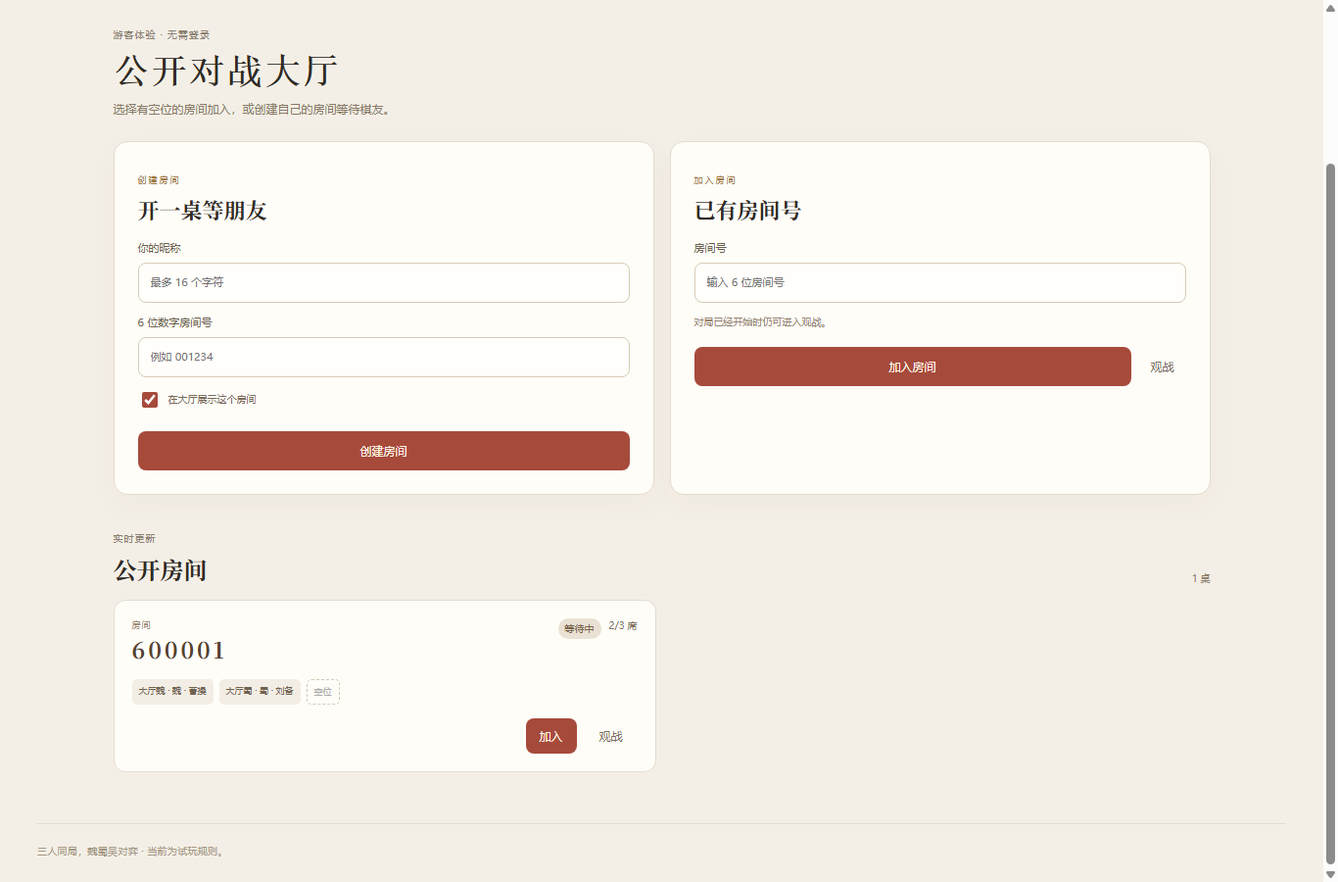
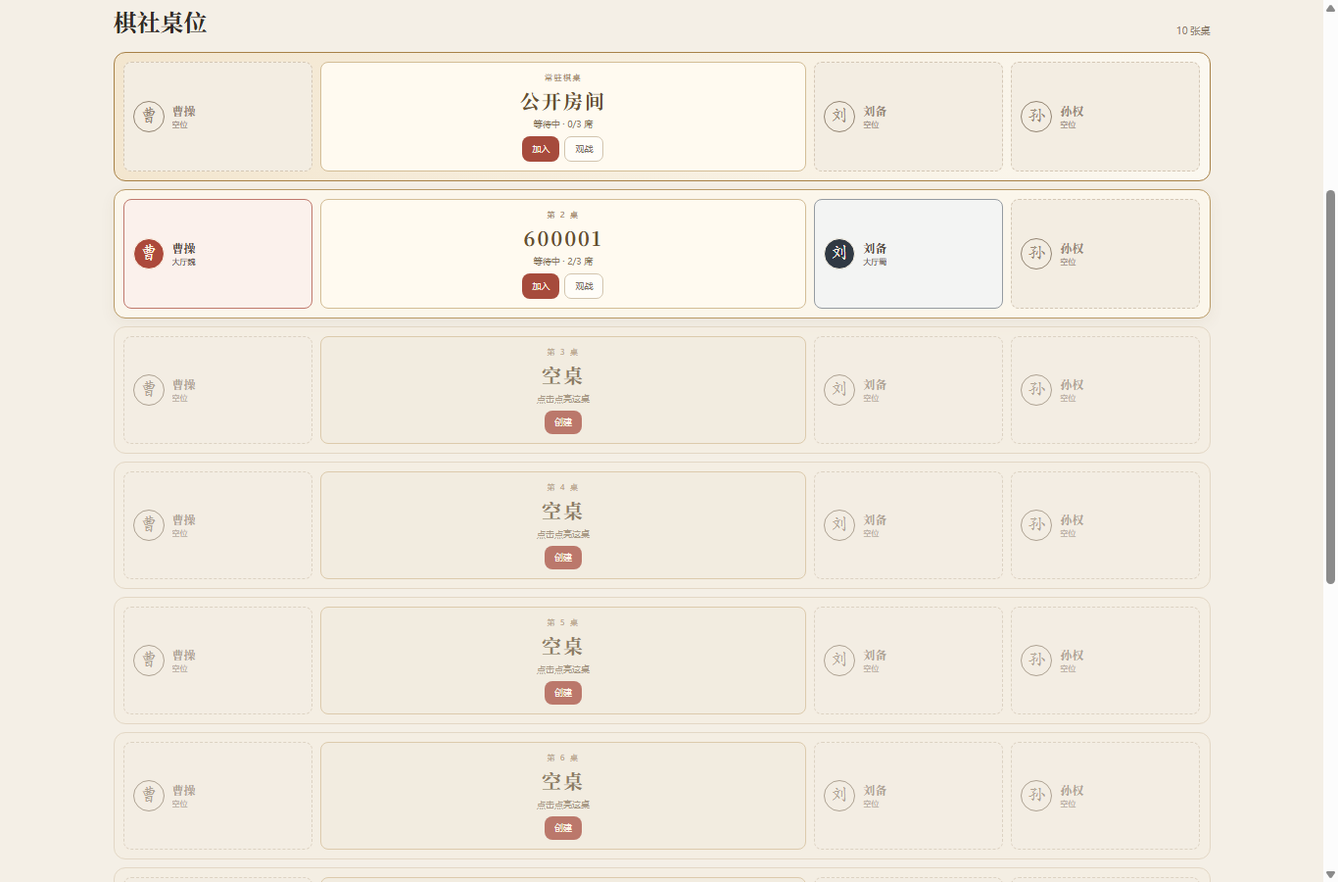
feat: turn public lobby into ten chess tables

diff --git a/src/style.css b/src/style.css
@@ -23,5 +23,7 @@ dialog{border:1px solid #ddcfb8;border-radius:15px;background:#fffdf7;color:#453
 .app-notice{margin:16px 0 0;padding:10px 13px;border-radius:8px;background:#f7e8dd;border:1px solid #dfb79d;font-size:11px;color:#8f4c36}
 .home-page{padding:34px 0 56px}.home-hero{display:grid;grid-template-columns:minmax(0,1.1fr) minmax(320px,.75fr);gap:44px;align-items:center;min-height:430px;padding:46px 52px;border:1px solid #dfd2bd;border-radius:22px;background:radial-gradient(circle at 82% 18%,#eadfcb 0,transparent 37%),linear-gradient(125deg,#fffaf0,#f1e7d6);box-shadow:0 24px 60px #5943230c}.home-hero h1{font:700 clamp(48px,6vw,78px) "Songti SC","SimSun",serif;letter-spacing:9px;color:#302820;margin:13px 0 20px}.home-lead{font:18px/2 "Songti SC","SimSun",serif;color:#6e5d49;letter-spacing:1px}.home-primary-actions{display:flex;align-items:center;gap:12px;margin-top:32px}.home-main-action{font-size:15px;padding:14px 24px;box-shadow:0 8px 20px #8e3d3024}.home-main-action span{margin-left:12px}.home-secondary-action{border-color:#cdbb9e;background:#fffaf0;padding:12px 17px;color:#745a37}.home-return-room{display:flex;align-items:center;justify-content:space-between;gap:18px;margin-top:24px;padding:13px 15px;border:1px solid #cfbd9f;border-radius:10px;background:#fffaf0c9}.home-return-room div{display:grid;gap:3px}.home-return-room strong{font-size:12px;color:#654f31}.home-return-room span{font-size:10px;color:#8c7a61}.home-return-room button{padding:8px 12px;white-space:nowrap}.home-hero-board{position:relative;width:min(100%,340px);aspect-ratio:.92;justify-self:center;border:9px solid #c7a66b;border-radius:13px;background:linear-gradient(145deg,#efdab4,#e3c38f);box-shadow:0 20px 45px #674a2922,inset 0 0 0 1px #72532d55;overflow:hidden}.home-hero-board::before{content:"";position:absolute;inset:7%;border:1px solid #74563288}.home-board-line{position:absolute;background:#74563266}.home-board-line.horizontal{left:7%;right:7%;height:1px}.home-board-line.horizontal.one{top:36%}.home-board-line.horizontal.two{top:64%}.home-board-line.vertical{top:7%;bottom:7%;width:1px}.home-board-line.vertical.one{left:36%}.home-board-line.vertical.two{left:64%}.home-board-label{position:absolute;left:0;right:0;top:46%;text-align:center;font:700 18px "STKaiti","KaiTi",serif;letter-spacing:7px;color:#82633c}.home-board-piece{position:absolute;display:grid;place-items:center;width:52px;height:52px;border-radius:50%;color:#fff9e9;font:700 25px "STKaiti","KaiTi",serif;box-shadow:0 5px 10px #4f361f3d,inset 0 0 0 3px #fff5df8c;border:1px solid #4e3927}.home-board-piece.wei{left:43%;bottom:10%;background:#b6503e}.home-board-piece.shu{right:15%;top:15%;background:#343e48}.home-board-piece.wu{left:15%;top:15%;background:#2e7956}.home-factions{display:grid;grid-template-columns:repeat(3,1fr);gap:14px;margin-top:20px}.home-faction-card{position:relative;display:flex;align-items:center;gap:15px;padding:20px;border:1px solid var(--line);border-radius:13px;background:#fffdf8}.home-faction-card.wei{--faction:#ac493b}.home-faction-card.shu{--faction:#303943}.home-faction-card.wu{--faction:#28704f}.home-faction-seal{display:grid;place-items:center;width:48px;height:48px;border-radius:50%;background:var(--faction);color:#fff8e8;font:700 24px "STKaiti","KaiTi",serif;box-shadow:inset 0 0 0 3px #fff4df33}.home-faction-card span:not(.home-faction-index):not(.home-faction-seal){font-size:9px;letter-spacing:2px;color:var(--faction)}.home-faction-card h2{font:700 19px "Songti SC",serif;margin:3px 0}.home-faction-card p{font-size:10px;color:#8b7b66}.home-faction-index{position:absolute;right:13px;top:10px;font-size:9px;color:#c0b29f}.home-actions{display:grid;grid-template-columns:repeat(3,1fr);gap:14px;margin-top:28px}.home-action-card{display:grid;gap:8px;text-align:left;border:1px solid #dbcfbc;border-radius:13px;background:#fffdf8;padding:22px;color:#493e32;min-height:178px}.home-action-card:hover{border-color:#bfa16d;background:#fffaf0;transform:translateY(-2px)}.home-action-kicker{font-size:9px;letter-spacing:2px;color:#a17942}.home-action-card strong{font:700 21px "Songti SC",serif}.home-action-card p{font-size:11px;line-height:1.8;color:#877965}.home-action-link{margin-top:auto;font-size:11px;color:#9c503c}.home-local-card{background:#f6f1e7}.home-secondary-row{display:flex;justify-content:center;gap:26px;margin-top:24px}.home-secondary-row .plain-button{color:#7f705c;border-bottom:1px solid #d2c3aa}.home-about{margin:34px auto 0;max-width:720px;text-align:center;padding:28px;border-top:1px solid var(--line);border-bottom:1px solid var(--line)}.home-about h2{font:700 24px "Songti SC",serif;margin:7px 0 10px}.home-about p{font-size:12px;line-height:2;color:#81725f}
 .lobby-page{max-width:1120px;margin:0 auto;padding:28px 0 52px}.lobby-page-nav{display:flex;justify-content:space-between;align-items:center;margin-bottom:28px}.lobby-tabs{display:flex;border:1px solid #d7cbb9;border-radius:9px;padding:3px;background:#eee7dc}.lobby-tabs button{border:0;border-radius:6px;background:transparent;padding:7px 14px;color:#776b5b;font-size:11px}.lobby-tabs button.active{background:#fffdf8;color:#923f33;box-shadow:0 1px 4px #5943231c}.lobby-page-heading h1{font:700 36px "Songti SC","SimSun",serif;letter-spacing:2px;margin:7px 0 9px}.lobby-page-heading p{font-size:12px;color:#887966}.lobby-current-room{display:flex;justify-content:space-between;align-items:center;gap:18px;margin:20px 0;padding:13px 16px;border:1px solid #cdb88f;border-radius:10px;background:#f5ecdb}.lobby-current-room div{display:grid;gap:3px}.lobby-current-room span{font-size:10px;color:#867357}.lobby-current-room strong{font:700 18px "Songti SC",serif;color:#684c29;letter-spacing:2px}.lobby-entry-grid{display:grid;grid-template-columns:1fr 1fr;gap:16px;margin-top:24px}.lobby-entry-card{padding:24px;border:1px solid var(--line);border-radius:14px;background:#fffdf8;box-shadow:0 10px 30px #59432308}.lobby-entry-card h2{font:700 22px "Songti SC",serif;margin:5px 0 16px}.lobby-card-kicker{font-size:9px;letter-spacing:2px;color:#a17942}.lobby-entry-card label{display:grid;gap:7px;margin:12px 0;font-size:11px;color:#6d5f4e}.lobby-entry-card input{border:1px solid #d8cab4;background:#fffefb;border-radius:8px;padding:11px 12px;min-width:0;outline:none;font:inherit}.lobby-entry-card input:focus{border-color:#a78147;box-shadow:0 0 0 3px #a781471b}.lobby-entry-card .lobby-listed-option{display:flex;align-items:center;gap:8px;font-size:10px;color:#786957}.lobby-listed-option input{width:16px;height:16px;padding:0;accent-color:#a64b3c}.lobby-entry-card>button{width:100%;margin-top:9px}.lobby-join-card>p{font-size:10px;color:#958571}.lobby-join-actions{display:grid;grid-template-columns:1fr auto;gap:8px;margin-top:18px}.lobby-join-actions button{width:auto!important}.public-room-section{margin-top:30px}.public-room-heading{display:flex;align-items:end;justify-content:space-between;margin-bottom:14px}.public-room-heading h2{font:700 24px "Songti SC",serif;margin-top:4px}.public-room-heading>span{font-size:10px;color:#8e806d}.public-room-list{display:grid;grid-template-columns:repeat(2,minmax(0,1fr));gap:12px}.public-room-card{display:grid;gap:14px;padding:18px;border:1px solid var(--line);border-radius:12px;background:#fffdf8}.public-room-main{display:flex;justify-content:space-between;gap:12px}.public-room-code{display:grid;gap:2px}.public-room-code span{font-size:9px;color:#9c8b75;letter-spacing:1px}.public-room-code strong{font:700 23px "Songti SC",serif;letter-spacing:3px;color:#554331}.public-room-meta{display:flex;align-items:flex-start;gap:8px;font-size:10px;color:#82735f}.room-phase{padding:3px 7px;border-radius:12px;background:#e9e1d3;color:#78634a}.room-phase.playing{background:#e2ece3;color:#3f704e}.room-phase.finished{background:#eee8e1;color:#88796a}.public-room-players{display:flex;flex-wrap:wrap;gap:6px}.public-room-players span{padding:5px 7px;border-radius:5px;background:#f3eee5;font-size:9px;color:#6f614f}.public-room-players span.offline{opacity:.55}.public-room-players span.empty{border:1px dashed #d5c8b6;background:transparent;color:#aaa}.public-room-actions{display:flex;gap:8px;justify-content:flex-end}.public-room-actions button{padding:8px 14px}.public-room-empty{padding:44px 20px;text-align:center;border:1px dashed #d6c8b5;border-radius:12px;color:#8c7e6b}.public-room-empty>span{display:grid;place-items:center;width:45px;height:45px;margin:0 auto 12px;border:1px solid #d6c8b5;border-radius:50%;font:24px "KaiTi",serif}.public-room-empty h3{font:700 20px "Songti SC",serif;margin-bottom:6px;color:#574837}.public-room-empty p{font-size:11px;margin-bottom:16px}.friend-flow-note{margin-top:24px;padding:24px;border:1px solid var(--line);border-radius:12px;background:#faf6ee}.friend-flow-note h2{font:700 21px "Songti SC",serif;margin-bottom:12px}.friend-flow-note ol{padding-left:21px;color:#746552;font-size:12px;line-height:2}.room-recovery{text-align:center}.room-recovery .entry-actions{justify-content:center;margin-top:20px}.room-heading p{font-size:10px;color:#91836f;margin-top:5px}
+.public-player-entry{display:grid;grid-template-columns:auto minmax(210px,340px) 1fr;align-items:center;gap:12px;margin-top:22px;padding:12px 15px;border:1px solid #ded1bd;border-radius:10px;background:#f8f3e9}.public-player-entry label{font-size:11px;color:#695a47}.public-player-entry input{border:1px solid #d6c7b0;border-radius:7px;background:#fffdf8;padding:9px 11px;min-width:0;font:inherit}.public-player-entry>span{font-size:10px;color:#94846f}.chess-club-hall{margin-top:22px}.chess-club-tables{display:grid;gap:8px}.chess-club-table{display:grid;grid-template-columns:minmax(92px,.7fr) minmax(240px,1.8fr) minmax(92px,.7fr) minmax(92px,.7fr);align-items:stretch;gap:8px;padding:9px;border:1px solid #ddcfb9;border-radius:12px;background:#f5eee2;transition:border-color .18s,background .18s,box-shadow .18s}.chess-club-table.active{border-color:#b99a67;background:#fbf6eb;box-shadow:0 5px 16px #674c2910}.chess-club-table.public-table{border-color:#a78147;background:linear-gradient(90deg,#f3e6cf,#fbf8f0)}.club-seat{display:flex;align-items:center;gap:8px;min-width:0;padding:9px;border:1px dashed #d4c7b5;border-radius:8px;background:#f3ede2;color:#938573}.club-seat.occupied{border-style:solid;background:#fffdf8;color:#4e4337}.club-seat.wei.occupied{border-color:#bf796d;background:#fbf1ec}.club-seat.shu.occupied{border-color:#959ba1;background:#f3f4f3}.club-seat.wu.occupied{border-color:#75a086;background:#eef6f0}.club-seat-mark{display:grid;place-items:center;width:32px;height:32px;flex:none;border-radius:50%;border:1px solid currentColor;font:700 18px "STKaiti","KaiTi",serif}.club-seat.occupied .club-seat-mark{color:#fff8e9}.club-seat.wei.occupied .club-seat-mark{background:#ac493b}.club-seat.shu.occupied .club-seat-mark{background:#303943}.club-seat.wu.occupied .club-seat-mark{background:#28704f}.club-seat>div{display:grid;min-width:0}.club-seat strong{font:700 12px "Songti SC",serif}.club-seat small{font-size:8px;overflow:hidden;text-overflow:ellipsis;white-space:nowrap}.club-table-center{display:grid;place-content:center;justify-items:center;gap:3px;min-width:0;padding:9px 12px;border:1px solid #d3bd96;border-radius:8px;background:#fffaf0;text-align:center}.club-table-label{font-size:8px;letter-spacing:1.5px;color:#a18152}.club-table-center>strong{font:700 20px "Songti SC",serif;letter-spacing:2px;color:#675032}.club-table-center>small{font-size:9px;color:#8b795f}.club-table-actions{display:flex;gap:5px;margin-top:3px}.club-table-actions button{padding:5px 10px;font-size:9px}.club-table-actions .tool-button{border:1px solid #d2c4ae;background:#fffdf8}.club-loading{text-align:center;font-size:10px;color:#a0907b;padding:16px}.chess-club-table.empty{opacity:.72}.chess-club-table.empty .club-table-center{background:#f2ebdf}
+@media(max-width:720px){.public-player-entry{grid-template-columns:1fr;gap:6px}.public-player-entry>span{padding-left:2px}.chess-club-table{grid-template-columns:62px minmax(110px,1fr) 62px 62px;gap:4px;padding:6px}.club-seat{align-items:center;gap:4px;padding:5px;text-align:center;flex-direction:column}.club-seat-mark{width:27px;height:27px;font-size:15px}.club-seat strong{font-size:10px}.club-seat small{max-width:52px;font-size:7px}.club-table-center{padding:6px 4px}.club-table-center>strong{font-size:15px;letter-spacing:1px}.club-table-center>small{font-size:8px}.club-table-actions{gap:3px}.club-table-actions button{padding:4px 6px;font-size:8px}}
 @media(max-width:900px){.home-hero{grid-template-columns:1fr;min-height:0;padding:32px}.home-hero-board{width:min(100%,280px);order:-1}.home-factions,.home-actions{grid-template-columns:1fr}.public-room-list{grid-template-columns:1fr}.lobby-entry-grid{grid-template-columns:1fr}.home-page{padding-top:18px}}
 @media(max-width:720px){.home-hero{padding:24px 18px;border-radius:15px}.home-hero h1{font-size:44px;letter-spacing:5px;margin:10px 0 14px}.home-lead{font-size:15px;line-height:1.9}.home-primary-actions{display:grid;grid-template-columns:1fr;margin-top:24px}.home-main-action,.home-secondary-action{width:100%;justify-content:center;text-align:center}.home-hero-board{width:210px}.home-board-piece{width:42px;height:42px;font-size:21px}.home-faction-card{padding:15px}.home-action-card{min-height:150px;padding:18px}.home-secondary-row{gap:18px;flex-wrap:wrap}.home-about{padding:22px 12px}.lobby-page{padding:18px 0 36px}.lobby-page-nav{align-items:flex-start;gap:12px;flex-wrap:wrap}.lobby-page-heading h1{font-size:29px}.lobby-entry-card{padding:18px}.public-room-card{padding:15px}.public-room-main{gap:7px}.public-room-actions{display:grid;grid-template-columns:1fr 1fr}.lobby-current-room{align-items:stretch;flex-direction:column}.lobby-current-room button{width:100%}.lobby-join-actions{grid-template-columns:1fr 1fr}.site-header{flex-wrap:wrap;gap:10px}.header-actions{display:grid;grid-template-columns:repeat(2,auto);justify-content:end;gap:3px 12px}.brand-button strong{font-size:21px}.brand-button small{font-size:7px}.plain-button{min-height:32px}.entry-actions{grid-template-columns:1fr}}

diff --git a/src/components/LobbyPage.vue b/src/components/LobbyPage.vue
@@ -1,6 +1,7 @@
 <script setup lang="ts">
 import { computed } from 'vue';
 import { PLAYERS } from '../game.ts';
+import { PUBLIC_ROOM_CODE } from '../online.ts';
 import type { PublicRoomSummary, RoomPhase } from '../online.ts';
 
 const props = defineProps<{
@@ -24,6 +25,7 @@ const emit = defineEmits<{
   switchFriends: [];
   resume: [];
   create: [];
+  createTable: [];
   join: [code?: string];
   watch: [code?: string];
   updateNickname: [value: string];
@@ -34,11 +36,20 @@ const emit = defineEmits<{
 
 const online = computed(() => props.connection === 'online');
 const phaseLabel = (phase: RoomPhase) => phase === 'lobby' ? '等待中' : phase === 'playing' ? '对局中' : '已结束';
-const factionLabel = (faction: keyof typeof PLAYERS | null) => faction ? `${PLAYERS[faction].nation} · ${PLAYERS[faction].name}` : '未选阵营';
 const title = computed(() => props.mode === 'public' ? '公开对战大厅' : '与好友对弈');
 const subtitle = computed(() => props.mode === 'public'
-  ? '选择有空位的房间加入，或创建自己的房间等待棋友。'
+  ? ''
   : '创建 6 位数字房间，把号码或邀请链接发给朋友。');
+const publicRoom = computed(() => props.rooms.find(room => room.code === PUBLIC_ROOM_CODE) ?? null);
+const tableSlots = computed(() => Array.from({ length: 9 }, (_, index) =>
+  props.rooms.filter(room => room.code !== PUBLIC_ROOM_CODE)[index] ?? null));
+const playerAt = (room: PublicRoomSummary | null, faction: keyof typeof PLAYERS) =>
+  room?.players.find(player => player.faction === faction) ?? null;
+function activateTable(room: PublicRoomSummary | null) {
+  if (!room) emit('createTable');
+  else if (room.joinable) emit('join', room.code);
+  else emit('watch', room.code);
+}
 </script>
 
 <template>
@@ -54,7 +65,7 @@ const subtitle = computed(() => props.mode === 'public'
     <header class="lobby-page-heading">
       <span class="eyebrow">游客体验 · 无需登录</span>
       <h1>{{ title }}</h1>
-      <p>{{ subtitle }}</p>
+      <p v-if="subtitle">{{ subtitle }}</p>
     </header>
 
     <div v-if="hasRoom" class="lobby-current-room">
@@ -64,7 +75,13 @@ const subtitle = computed(() => props.mode === 'public'
       </button>
     </div>
 
-    <section class="lobby-entry-grid">
+    <section v-if="mode === 'public'" class="public-player-entry">
+      <label for="lobby-nickname">你的昵称</label>
+      <input id="lobby-nickname" :value="nickname" maxlength="16" autocomplete="nickname" placeholder="先填写昵称，再点击桌位加入" @input="emit('updateNickname', ($event.target as HTMLInputElement).value)">
+      <span>共 10 张桌 · 第一张为常驻公开桌</span>
+    </section>
+
+    <section v-if="mode === 'friends'" class="lobby-entry-grid">
       <form class="lobby-entry-card" @submit.prevent="emit('create')">
         <span class="lobby-card-kicker">创建房间</span>
         <h2>开一桌等朋友</h2>
@@ -88,41 +105,48 @@ const subtitle = computed(() => props.mode === 'public'
 
     <p v-if="connection !== 'online' || error" class="connection-note" :class="{ error }">{{ error || '连接中断，正在重连…' }}</p>
 
-    <section v-if="mode === 'public'" class="public-room-section" aria-label="公开房间列表" aria-live="polite">
+    <section v-if="mode === 'public'" class="public-room-section chess-club-hall" aria-label="棋社桌位" aria-live="polite">
       <div class="public-room-heading">
-        <div><span class="eyebrow">实时更新</span><h2>公开房间</h2></div>
-        <span>{{ rooms.length }} 桌</span>
+        <h2>棋社桌位</h2><span>10 张桌</span>
       </div>
-      <div v-if="rooms.length" class="public-room-list">
-        <article v-for="room in rooms" :key="room.code" class="public-room-card">
-          <div class="public-room-main">
-            <div class="public-room-code"><span>房间</span><strong>{{ room.code }}</strong></div>
-            <div class="public-room-meta">
-              <span class="room-phase" :class="room.phase">{{ phaseLabel(room.phase) }}</span>
-              <span>{{ room.playerCount }}/{{ room.maxPlayers }} 席</span>
+      <div class="chess-club-tables">
+        <article class="chess-club-table public-table" :class="{ active: publicRoom?.playerCount }">
+          <div class="club-seat wei" :class="{ occupied: playerAt(publicRoom, 'wei') }"><span class="club-seat-mark">曹</span><div><strong>曹操</strong><small>{{ playerAt(publicRoom, 'wei')?.nickname ?? '空位' }}</small></div></div>
+          <div class="club-table-center">
+            <span class="club-table-label">常驻棋桌</span>
+            <strong>公开房间</strong>
+            <small>{{ publicRoom ? `${phaseLabel(publicRoom.phase)} · ${publicRoom.playerCount}/3 席` : '等待开局' }}</small>
+            <div class="club-table-actions">
+              <button class="primary-button" :disabled="busy || !online || hasRoom || !publicRoom?.joinable" @click="activateTable(publicRoom)">加入</button>
+              <button class="tool-button" :disabled="busy || !online || hasRoom || !publicRoom" @click="publicRoom && emit('watch', publicRoom.code)">观战</button>
             </div>
           </div>
-          <div class="public-room-players">
-            <span v-for="(player, index) in room.players" :key="`${room.code}-${index}`" :class="{ offline: !player.online }">
-              {{ player.nickname }} · {{ factionLabel(player.faction) }}
-            </span>
-            <span v-for="slot in room.maxPlayers - room.playerCount" :key="`empty-${slot}`" class="empty">空位</span>
-          </div>
-          <div class="public-room-actions">
-            <button v-if="room.joinable" class="primary-button" :disabled="busy || !online || hasRoom" @click="emit('join', room.code)">加入</button>
-            <button class="tool-button" :disabled="busy || !online || hasRoom" @click="emit('watch', room.code)">观战</button>
-          </div>
+          <div class="club-seat shu" :class="{ occupied: playerAt(publicRoom, 'shu') }"><span class="club-seat-mark">刘</span><div><strong>刘备</strong><small>{{ playerAt(publicRoom, 'shu')?.nickname ?? '空位' }}</small></div></div>
+          <div class="club-seat wu" :class="{ occupied: playerAt(publicRoom, 'wu') }"><span class="club-seat-mark">孙</span><div><strong>孙权</strong><small>{{ playerAt(publicRoom, 'wu')?.nickname ?? '空位' }}</small></div></div>
+        </article>
+
+        <article v-for="(room, index) in tableSlots" :key="index" class="chess-club-table" :class="{ active: room, empty: !room }">
+          <template v-for="faction in ['wei', 'shu', 'wu'] as const" :key="faction">
+            <div class="club-seat" :class="[faction, { occupied: playerAt(room, faction) }]">
+              <span class="club-seat-mark">{{ PLAYERS[faction].initial }}</span>
+              <div><strong>{{ PLAYERS[faction].name }}</strong><small>{{ playerAt(room, faction)?.nickname ?? '空位' }}</small></div>
+            </div>
+            <div v-if="faction === 'wei'" class="club-table-center">
+              <span class="club-table-label">第 {{ index + 2 }} 桌</span>
+              <strong>{{ room?.code ?? '空桌' }}</strong>
+              <small>{{ room ? `${phaseLabel(room.phase)} · ${room.playerCount}/3 席` : '点击点亮这桌' }}</small>
+              <div class="club-table-actions">
+                <button v-if="!room" class="primary-button" :disabled="busy || !online || hasRoom" @click="emit('createTable')">创建</button>
+                <template v-else>
+                  <button v-if="room.joinable" class="primary-button" :disabled="busy || !online || hasRoom" @click="emit('join', room.code)">加入</button>
+                  <button class="tool-button" :disabled="busy || !online || hasRoom" @click="emit('watch', room.code)">观战</button>
+                </template>
+              </div>
+            </div>
+          </template>
         </article>
       </div>
-      <div v-else-if="loaded" class="public-room-empty">
-        <span aria-hidden="true">弈</span>
-        <h3>大厅还没有房间</h3>
-        <p>创建一个公开房间，让正在大厅的棋友加入。</p>
-        <button class="primary-button" :disabled="busy || !online || hasRoom" @click="emit('create')">创建第一个房间</button>
-      </div>
-      <div v-else class="public-room-empty">
-        <p>正在获取公开房间…</p>
-      </div>
+      <p v-if="!loaded" class="club-loading">正在连接棋社…</p>
     </section>
 
     <section v-else class="friend-flow-note">

diff --git a/server/room-service.ts b/server/room-service.ts
@@ -1,6 +1,7 @@
 import { randomBytes, randomUUID } from 'node:crypto';
 import { ORDER, drawGame, newGame, playMove, resignFaction } from '../src/game.ts';
 import type { Faction, Game, Point } from '../src/game.ts';
+import { PUBLIC_ROOM_CODE } from '../src/online.ts';
 import type { ClientAck, DrawOfferView, DrawVote, MoveIntent, PublicRoomSummary, RoomPhase, RoomPlayerView, RoomView, SessionReceipt } from '../src/online.ts';
 
 interface Player {
@@ -60,6 +61,10 @@ export class RoomService {
   constructor(onRoomChanged: (room: Room) => void = () => {}, lobbyGraceMs = 60_000) {
     this.onRoomChanged = onRoomChanged;
     this.lobbyGraceMs = lobbyGraceMs;
+    this.rooms.set(PUBLIC_ROOM_CODE, {
+      code: PUBLIC_ROOM_CODE, phase: 'lobby', version: 1, round: 1, players: [], spectators: new Set(),
+      game: null, drawOffer: null, listed: true, requests: new Map(),
+    });
   }
 
   createRoom(codeValue: unknown, nicknameValue: unknown, socketId: string, listedValue: unknown = true): RoomActionResult<SessionReceipt> {
@@ -329,15 +334,17 @@ export class RoomService {
 
   getRoom(code: string): Room | undefined { return this.rooms.get(cleanCode(code)); }
 
-  publicRooms(limit = 50): PublicRoomSummary[] {
-    return Array.from(this.rooms.values())
-      .filter(room => room.listed)
+  publicRooms(limit = 10): PublicRoomSummary[] {
+    const publicRoom = this.rooms.get(PUBLIC_ROOM_CODE);
+    const customRooms = Array.from(this.rooms.values())
+      .filter(room => room.listed && room.code !== PUBLIC_ROOM_CODE)
       .map(room => this.summary(room))
       .sort((left, right) => {
         const priority = (room: PublicRoomSummary) => room.joinable ? 0 : room.phase === 'lobby' ? 1 : room.phase === 'playing' ? 2 : 3;
         return priority(left) - priority(right) || right.playerCount - left.playerCount || left.code.localeCompare(right.code);
-      })
-      .slice(0, Math.max(0, Math.min(50, limit)));
+      });
+    const rooms = publicRoom ? [this.summary(publicRoom), ...customRooms] : customRooms;
+    return rooms.slice(0, Math.max(0, Math.min(10, limit)));
   }
 
   private processMove(code: string, tokenValue: unknown, intentValue: unknown, socketId?: string): RoomActionResult<{ state: RoomView }> {
@@ -420,7 +427,19 @@ export class RoomService {
     if (player.socketId) this.socketRoom.delete(player.socketId);
     room.players = room.players.filter(item => item !== player);
     room.version++;
-    if (!room.players.length) this.rooms.delete(room.code);
+    if (!room.players.length) {
+      if (room.code === PUBLIC_ROOM_CODE) this.resetPublicRoom(room);
+      else this.rooms.delete(room.code);
+    }
+  }
+
+  private resetPublicRoom(room: Room): void {
+    room.phase = 'lobby';
+    room.round++;
+    room.game = null;
+    room.drawOffer = null;
+    room.requests.clear();
+    room.version++;
   }
 
   private nextLobby(room: Room): void {

diff --git a/tests/room-service.test.ts b/tests/room-service.test.ts
@@ -65,7 +65,7 @@ test('a room rejects a fourth player and separate rooms never share state', asyn
   assert.equal(service.getRoom(other.roomCode)!.game, null);
 });
 
-test('public lobby summaries are ordered by available seats and hide unlisted rooms', () => {
+test('public lobby summaries use one permanent table, nine custom slots, and hide unlisted rooms', async () => {
   const service = new RoomService();
   const one = receipt(service.createRoom('111111', '一号房主', 'one'));
   receipt(service.joinRoom('111111', '一号二号', 'one-two') as ReturnType<RoomService['createRoom']>);
@@ -75,6 +75,7 @@ test('public lobby summaries are ordered by available seats and hide unlisted ro
   const rooms = service.publicRooms();
   assert.deepEqual(Object.keys(rooms[0]).sort(), ['code', 'joinable', 'maxPlayers', 'phase', 'playerCount', 'players', 'watchable']);
   assert.deepEqual(rooms.map(room => [room.code, room.playerCount, room.joinable]), [
+    ['000000', 0, true],
     ['111111', 2, true],
     ['222222', 1, true],
   ]);
@@ -90,11 +91,17 @@ test('public lobby summaries are ordered by available seats and hide unlisted ro
   assert.equal((service.getRoom(one.roomCode)?.listed), true);
   assert.equal((service.getRoom(hidden.roomCode)?.listed), false);
 
-  for (let index = 0; index < 52; index++)
+  const publicJoin = receipt(service.joinRoom('000000', '公开桌访客', 'public-one') as ReturnType<RoomService['createRoom']>);
+  assert.equal(service.getRoom('000000')?.players.length, 1);
+  assert.equal((await service.leaveRoom('000000', publicJoin.reconnectToken, 'public-one')).ack.ok, true);
+  assert.equal(service.getRoom('000000')?.players.length, 0);
+  assert.equal(service.getRoom('000000')?.phase, 'lobby');
+
+  for (let index = 0; index < 12; index++)
     receipt(service.createRoom(String(410000 + index), `容量房${index}`, `capacity-${index}`));
-  assert.equal(service.publicRooms().length, 50);
+  assert.equal(service.publicRooms().length, 10);
   assert.equal(service.publicRooms(3).length, 3);
-  assert.equal(service.publicRooms(100).length, 50);
+  assert.equal(service.publicRooms(100).length, 10);
 });
 
 test('server enforces faction ownership, turn, legal moves, and three-slot order', async () => {

diff --git a/src/App.vue b/src/App.vue
@@ -304,6 +304,15 @@ async function createOnlineRoom() {
   await online.createRoom(lobbyListed.value);
   if (room.value) await navigatePage('room', room.value.code, 'replace');
 }
+async function createPublicTable() {
+  if (!nickname.value.trim()) { onlineError.value = '请先填写昵称，再点亮桌位。'; return; }
+  for (let attempt = 0; attempt < 4 && !room.value; attempt++) {
+    const random = crypto.getRandomValues(new Uint32Array(1))[0] % 1_000_000;
+    createCode.value = String(random || 1).padStart(6, '0');
+    await online.createRoom(true);
+  }
+  if (room.value) await navigatePage('room', room.value.code, 'replace');
+}
 async function joinOnlineRoom(code?: string) {
   await online.joinRoom(code);
   if (room.value) await navigatePage('room', room.value.code, 'replace');
@@ -402,7 +411,7 @@ async function requestRematch() {
       :loaded="lobbyLoaded" :has-room="hasSession"
       :current-room-code="room?.code ?? savedRoomCode" :current-room-phase="currentRoomPhase"
       @home="openHomePage" @switch-public="openLobbyPage" @switch-friends="openFriendsPage" @resume="openCurrentRoom"
-      @create="createOnlineRoom" @join="joinOnlineRoom" @watch="watchOnlineRoom"
+      @create="createOnlineRoom" @create-table="createPublicTable" @join="joinOnlineRoom" @watch="watchOnlineRoom"
       @update-nickname="nickname = $event" @update-create-code="createCode = $event"
       @update-join-code="joinCode = $event" @update-listed="lobbyListed = $event" />
 

diff --git a/tests/online-ui.test.ts b/tests/online-ui.test.ts
@@ -100,8 +100,10 @@ test('a public lobby room updates live and accepts the final player without repl
     success(await send(players[1], 'room:ready', { roomCode: a.roomCode, reconnectToken: b.reconnectToken, ready: true, round: 1 }));
 
     wrapper = mount(App, { attachTo: document.body });
-    await waitUntil(() => wrapper!.findAll('.public-room-card').some(card => card.text().includes('400006')), 'Public room did not appear');
-    const roomCard = () => wrapper!.findAll('.public-room-card').find(card => card.text().includes('400006'))!;
+    await waitUntil(() => wrapper!.findAll('.chess-club-table').some(card => card.text().includes('400006')), 'Public room did not appear');
+    assert.equal(wrapper.findAll('.chess-club-table').length, 10);
+    assert.match(wrapper.findAll('.chess-club-table')[0].text(), /公开房间/);
+    const roomCard = () => wrapper!.findAll('.chess-club-table').find(card => card.text().includes('400006'))!;
     assert.match(roomCard().text(), /2\/3 席/);
     await wrapper.get('input[autocomplete="nickname"]').setValue('大厅吴');
     await roomCard().findAll('button').find(button => button.text() === '加入')!.trigger('click');

diff --git a/server/create-server.ts b/server/create-server.ts
@@ -14,7 +14,7 @@ export function createOnlineServer() {
   const httpServer = createServer(app);
   const io = new Server(httpServer, { path: '/three-chess/socket.io', cors: { origin: true, credentials: true } });
   let lobbyTimer: ReturnType<typeof setTimeout> | null = null;
-  const lobbySnapshot = (): PublicLobbySnapshot => ({ rooms: rooms.publicRooms(50) });
+  const lobbySnapshot = (): PublicLobbySnapshot => ({ rooms: rooms.publicRooms(10) });
   const flushLobby = () => {
     lobbyTimer = null;
     io.to(PUBLIC_LOBBY).emit('lobby:rooms', lobbySnapshot());

diff --git a/src/components/HomePage.vue b/src/components/HomePage.vue
@@ -54,7 +54,7 @@ const resumeLabel = computed(() => props.roomPhase === 'lobby' ? '返回房间' 
         <div>
           <span>{{ PLAYERS[faction].nation }}国</span>
           <h2>{{ PLAYERS[faction].name }}</h2>
-          <p>{{ index === 0 ? '坐镇下方，先手开局' : index === 1 ? '据守右翼，伺机而动' : '列阵左翼，后发制人' }}</p>
+          <p>{{ index === 0 ? '坐镇北方，先手开局' : index === 1 ? '据守西方，伺机而动' : '列阵东方，后发制人' }}</p>
         </div>
       </article>
     </section>

diff --git a/src/online.ts b/src/online.ts
@@ -72,6 +72,7 @@ export type ClientAck<T = undefined> =
 
 export const ONLINE_SESSION_KEY = 'three-kingdoms-chess:online-session-v1';
 export const PENDING_LEAVES_KEY = 'three-kingdoms-chess:pending-leaves-v1';
+export const PUBLIC_ROOM_CODE = '000000';
 
 /** getRandomValues works on the site's HTTP IP address; randomUUID requires a secure context. */
 export function createMoveRequestId(source: Pick<Crypto, 'getRandomValues'> = globalThis.crypto): string {

diff --git a/README.md b/README.md
@@ -33,7 +33,8 @@ npm run dev
 - 联机中只有当前行棋的存活方可提和，提出者自动同意；其余存活阵营全部同意后判和，任一拒绝则继续。已有一方出局时由剩余两方表决。
 - 选中棋子反馈、合法落点与吃子提示、当前头像高亮、上一手痕迹和行棋记录。
 - 新访客首页包含三国阵营介绍、主要玩法入口、房间恢复入口和简短项目说明；首页不展开完整棋盘。
-- 公开对战大厅实时展示房间号、席位、状态、昵称和阵营；有空位的等待房优先，2/3 排在 1/3 前，随后才是对局中和已结束房间。
+- 公开对战大厅采用棋社式 10 桌视图：第 1 桌是无需创建、始终可加入的“公开房间”，其余 9 桌由玩家点击空桌创建；每桌按曹操、房间号/状态、刘备、孙权四栏展示。
+- 有人入座或创建后桌子点亮，显示昵称、房间号、人数和加入/观战操作；有空位的等待房优先，2/3 排在 1/3 前，随后才是对局中和已结束房间。
 - 创建房间时可选择是否在大厅展示，默认展示；未展示房间仍可通过准确房号、邀请链接和观战入口进入。
 - 首页、大厅、好友组局、等待区和对局页使用独立页面状态；返回首页或大厅不会退房、认输、断开身份或重建 Socket 连接。
 - 有行棋记录后可从本地、联机或观战页面导出 Markdown 棋谱；文件包含规则版本、导出时间、胜负、标准显示坐标走法，以及初始和导出时全部子力位置。
@@ -59,7 +60,7 @@ npm run dev
 
 观战者在“观战”入口输入相同的 6 位房间号即可进入，满员房间也可以看。观战页面显示玩家在线情况；开局后显示同步棋盘、轮次、上一手、棋谱和胜负。观战者不持有玩家重连凭证，也不能进行玩家操作。房间最后一名玩家退出后房间销毁，观战页面会提示返回大厅。
 
-公开大厅只向订阅客户端广播最多 50 个房间的摘要，并在房间变化后合并到约 50 毫秒一次更新。摘要不包含棋局、重连凭证或玩家内部 ID；大厅显示的可加入状态与服务端使用同一房间容量判断，最后一个空位由服务端串行确认。
+公开大厅只向订阅客户端广播最多 10 桌的摘要，并在房间变化后合并到约 50 毫秒一次更新。摘要不包含棋局、重连凭证或玩家内部 ID；大厅显示的可加入状态与服务端使用同一房间容量判断，最后一个空位由服务端串行确认。公开桌在桌面无人时自动恢复为空桌，不需要提前创建。
 
 ### 页面地址
 
@@ -142,13 +143,13 @@ npm run build
 
 ## 验证记录
 
-2026-11-01 游戏首页与公开对战大厅（仅本地，未部署）：新增首页、公开大厅、好友组局入口、等待区拆分和页面路由；房间列表实时同步人数、阶段、玩家昵称/阵营与可用操作，默认只展示公开房间且限制摘要为 50 条、约 50 毫秒合并更新。服务端统一判断最后空位，列表不包含棋局或重连凭证；创建时可关闭大厅展示，隐藏房间仍支持房号和邀请链接。返回首页/大厅不触发退房或认输，刷新、前进和后退保持原房间身份。Socket.IO 所有回执入口均增加缺失回调和内部异常保护。`npm test` 共 98 项通过，`npm run check` 与 `npm run build` 通过。真实 Chromium 完成首页 → 公开大厅 → 加入 2/3 等待房 → 选择阵营/准备 → 三人开局流程，并检查浏览器前进/后退未替换席位；桌面与 400×811 手机视口均无横向溢出。验收截图见 [docs/验收截图](docs/验收截图/)。
+2026-11-01 游戏首页与公开对战大厅（仅本地，未部署）：首页阵营文案调整为北方、西方、东方；公开大厅改为棋社式 10 桌，第 1 桌为服务端常驻公开桌，其余 9 桌由玩家点击空桌创建并点亮。公开大厅不再摆放创建和房号表单，保留昵称、席位、加入与观战操作；好友组局继续支持自定 6 位房号和邀请链接。房间摘要限制为 10 桌、约 50 毫秒合并更新，不包含棋局或重连凭证；最后一个空位由服务端统一判断。返回首页/大厅不触发退房或认输，刷新、前进和后退保持原房间身份。Socket.IO 回执入口增加缺失回调和内部异常保护。`npm test` 共 98 项通过，`npm run check` 与 `npm run build` 通过。真实 Chromium 完成首页 → 10 桌大厅 → 加入 2/3 等待房 → 选择阵营/准备 → 三人开局流程，并检查浏览器前进/后退未替换席位；桌面与 400×811 手机视口均无横向溢出。验收截图见 [docs/验收截图](docs/验收截图/)。
 
 | 验收页面 | 桌面 | 手机 400×811 |
 | --- | --- | --- |
 | 游戏首页 | [截图](docs/验收截图/2026-11-01-home-desktop.png) | [截图](docs/验收截图/2026-11-01-home-mobile.png) |
 | 公开大厅 | [截图](docs/验收截图/2026-11-01-lobby-desktop.png) | [截图](docs/验收截图/2026-11-01-lobby-mobile.png) |
-| 公开房间列表 | [截图](docs/验收截图/2026-11-01-lobby-rooms-desktop.png) | [截图](docs/验收截图/2026-11-01-lobby-rooms-mobile.png) |
+| 棋社 10 桌列表 | [截图](docs/验收截图/2026-11-01-lobby-rooms-desktop.png) | [截图](docs/验收截图/2026-11-01-lobby-rooms-mobile.png) |
 | 房间等待区 | [截图](docs/验收截图/2026-11-01-waiting-desktop.png) | [截图](docs/验收截图/2026-11-01-waiting-mobile.png) |
 | 三人对局 | [截图](docs/验收截图/2026-11-01-game-desktop.png) | [截图](docs/验收截图/2026-11-01-game-mobile.png) |
 

diff --git a/docs/联机试玩与部署.md b/docs/联机试玩与部署.md
@@ -9,7 +9,7 @@ npm run dev
 
 网页由 Vite 提供，联机服务默认监听 `127.0.0.1:3000`。网站默认进入游戏首页；可从“对战大厅”查看公开房间，也可从“好友组局”输入昵称和自定的 6 位纯数字房间号（例如 `001234`）创建房间。号码已占用时须换一个。另两位玩家输入相同房间号加入，三人分别选择魏、蜀、吴并准备后自动开始。房间号作为字符串保存，前导零会在页面、地址栏、邀请链接和重连凭证中保持一致。旧的 6 位字母数字房间号仍可用于加入、观战和恢复已有房间。
 
-网站默认入口是游戏首页。“公开大厅”会订阅服务端公开房间摘要，默认展示带空位的等待房、满员等待房、对局中和已结束房间；带空位的等待房优先，其中 2/3 排在 1/3 前。摘要最多 50 条，并在房间变化后约 50 毫秒合并广播一次，不包含棋局或身份凭证。创建房间时“在大厅展示这个房间”默认勾选；取消勾选后，只要知道房号或邀请链接仍可加入或观战。
+网站默认入口是游戏首页。“公开大厅”采用棋社式 10 桌视图：第 1 桌是服务端常驻公开桌，不需要任何人先创建；后 9 桌在无人时为空桌，玩家点击空桌即可创建并点亮。每桌按“曹操｜房间号/状态｜刘备｜孙权”展示，有人在座后显示昵称。摘要最多 10 桌，并在房间变化后约 50 毫秒合并广播一次，不包含棋局或身份凭证。好友组局仍可创建带自定义房号的展示或隐藏房间；隐藏房间只能按房号或邀请链接进入。
 
 大厅“加入”只由服务端最终决定。多人竞争最后一个空位时，先到达服务端的请求获得席位，其余请求收到房间已满；对局中和已结束房间只能观战。房间创建、加入、退出、断线释放、开始、结束、重来和销毁都会通过公开摘要更新大厅。
 

diff --git a/docs/V0.1验收清单.md b/docs/V0.1验收清单.md
@@ -19,8 +19,9 @@
 ## 首页与公开大厅验收（当前版本）
 
 - [x] 新访客首先进入游戏首页，可进入公开大厅、好友组局、本地试玩和玩法说明；首页不展开完整棋盘。
-- [x] 公开房间摘要包含房间号、人数、阶段、玩家昵称/阵营、加入或观战操作，不包含棋局和重连凭证。
-- [x] 等待房按 2/3、1/3 等空位情况优先排序，之后展示满员等待、对局中和已结束房间；列表上限 50 条并合并更新。
+- [x] 公开大厅固定展示 10 桌：首桌为常驻公开房间，其余 9 桌无人时显示空桌，创建后显示房间号并点亮。
+- [x] 每桌包含曹操、刘备、孙权席位及中间房间状态，公开摘要不包含棋局和重连凭证。
+- [x] 等待房按 2/3、1/3 等空位情况优先排序，之后展示满员等待、对局中和已结束房间；最多显示 10 桌并合并更新。
 - [x] 创建房间默认在大厅展示，也可选择隐藏；隐藏房间仍能通过房号与邀请链接加入。
 - [x] 最后空位由服务端确认，竞争加入不会使房间超过 3 人；对局中不能入座但可以观战。
 - [x] 房间人数、开始、结束、再来一局、退出和销毁会实时更新大厅，无须刷新。
